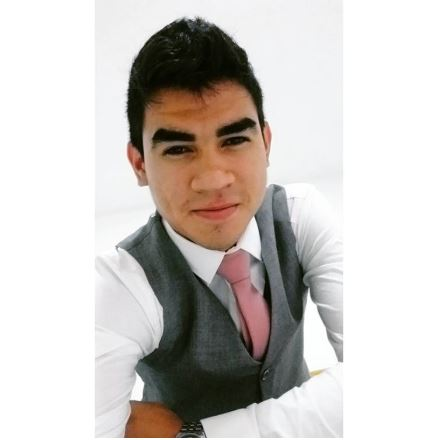
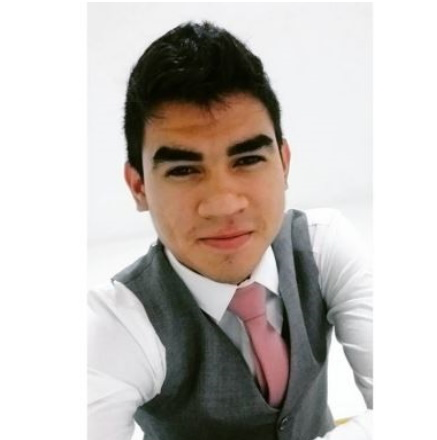
edições em TIME

diff --git a/index.html b/index.html
@@ -297,11 +297,11 @@
 
           <div class="col-lg-4 mt-2">
             <div class="member d-flex align-items-start" data-aos="zoom-in" data-aos-delay="300">
-              <div class="pic"><img src="assets/img/team/felipe.png" class="img-fluid" alt=""></div>
+              <div class="pic"><img src="assets/img/team/felipe.JPG" class="img-fluid" alt=""></div>
               <div class="member-info">
                 <h4>Felipe Rodrigues</h4>
                 <span>CO</span>
-                <p>MBA em Negócios Me. em Eng. Mecânica. </p>
+                <p>MBA em Negócios Me. em Eng. Mecânica.</p>
                 <div class="social">
                   <!--<a href=""><i class="ri-twitter-fill"></i></a>
                   <a href=""><i class="ri-facebook-fill"></i></a>
